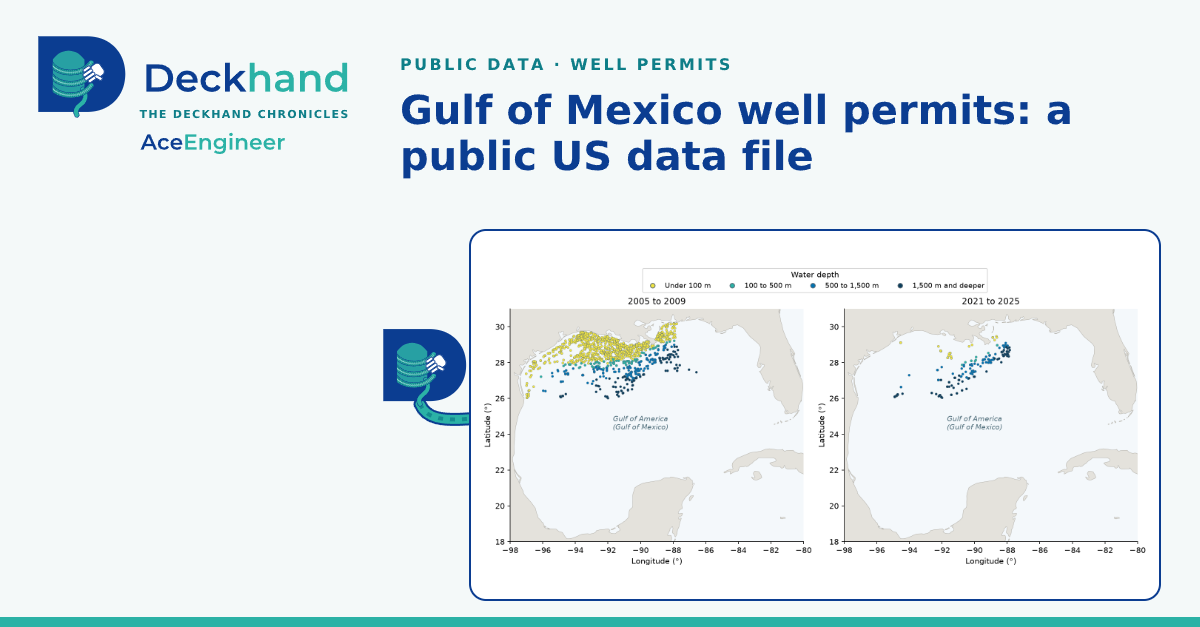
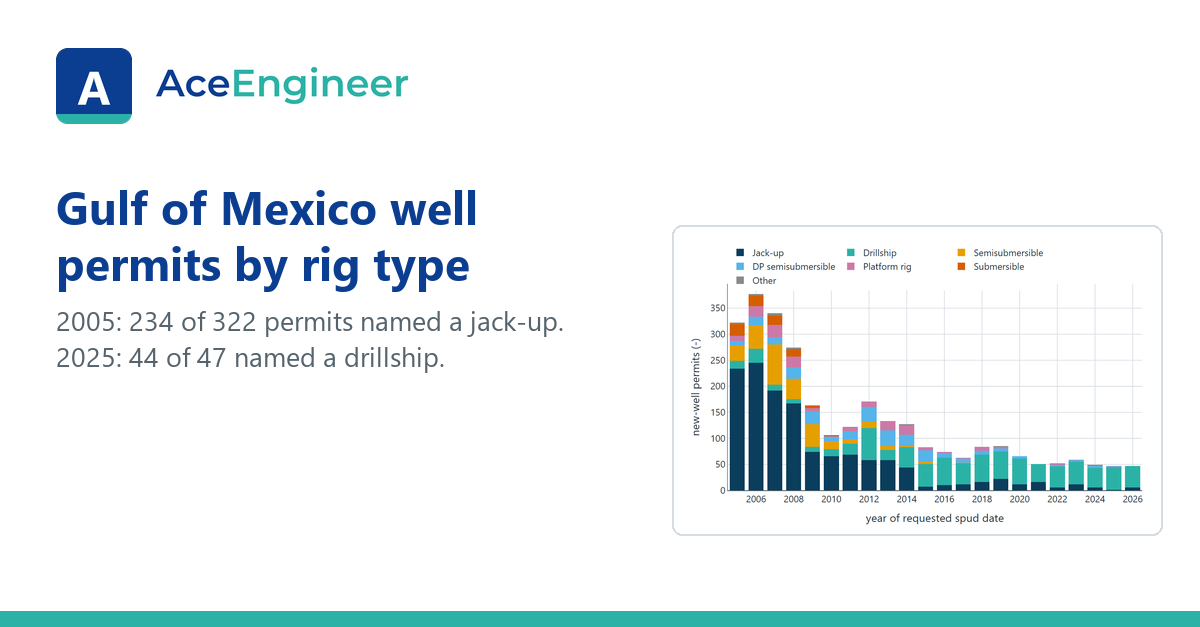
newsletter: review fixes for the issue 2 public data page
- Link-preview image under a new dated filename, so caches of the
  immutable old URL cannot pair the old chart with the new alt text; the
  old file stays as it was for links already shared.
- Map autoplay turns its live region off while playing and back on when
  the reader stops it, so screen readers do not announce every window.
- vendored-assets test: each Plotly build must have a matching .sha256
  sidecar, and the exception page must load the exact site path.

Claude-Session: https://claude.ai/code/session_01BEEVa5XpSEwnoG3YLYC6ZT

diff --git a/content/newsletter/issue-002-public-data/index.html b/content/newsletter/issue-002-public-data/index.html
@@ -12,7 +12,7 @@ rootPath: "../../"
 <meta property="og:description" content="Counts from raw data files of the US Bureau of Safety and Environmental Enforcement (BSEE): new-well permits in the US Gulf of Mexico by rig type and water depth, 2005 to 2026, and a map of new wells by water depth beside the oil price.">
 <meta property="og:type" content="article">
 <meta property="og:url" content="{{ canonicalUrl }}">
-<meta property="og:image" content="https://www.aceengineer.com/assets/img/og/issue-002-public-data.png">
+<meta property="og:image" content="https://www.aceengineer.com/assets/img/og/issue-002-public-data-2026-11-18.png">
 <meta property="og:image:type" content="image/png">
 <meta property="og:image:width" content="1200">
 <meta property="og:image:height" content="627">
@@ -20,7 +20,7 @@ rootPath: "../../"
 <meta name="twitter:card" content="summary_large_image">
 <meta name="twitter:title" content="Gulf of Mexico well permits: a public US data file (Deckhand newsletter, issue 2)">
 <meta name="twitter:description" content="Counts from raw data files of the US Bureau of Safety and Environmental Enforcement (BSEE): new-well permits in the US Gulf of Mexico by rig type and water depth, 2005 to 2026, and a map of new wells by water depth beside the oil price.">
-<meta name="twitter:image" content="https://www.aceengineer.com/assets/img/og/issue-002-public-data.png">
+<meta name="twitter:image" content="https://www.aceengineer.com/assets/img/og/issue-002-public-data-2026-11-18.png">
 <meta name="twitter:image:alt" content="Deckhand and AceEngineer marks with the title Gulf of Mexico well permits: a public US data file, beside a map of new Gulf wells by water depth">
 <script type="application/ld+json">[{"@context": "https://schema.org", "@type": "Article", "headline": "Gulf of Mexico well permits: a public US data file (Deckhand newsletter, issue 2)", "name": "Gulf of Mexico well permits: a public US data file (Deckhand newsletter, issue 2)", "description": "Counts from raw data files of the US Bureau of Safety and Environmental Enforcement (BSEE): new-well permits in the US Gulf of Mexico by rig type and water depth, 2005 to 2026, and a map of new wells by water depth beside the oil price.", "datePublished": "2026-11-04", "dateModified": "2026-11-18", "url": "https://www.aceengineer.com/newsletter/issue-002-public-data/", "inLanguage": "en-US", "publisher": {"@id": "https://www.aceengineer.com/#organization"}}, {"@context": "https://schema.org", "@type": "BreadcrumbList", "itemListElement": [{"@type": "ListItem", "position": 1, "name": "Home", "item": "https://www.aceengineer.com/"}, {"@type": "ListItem", "position": 2, "name": "Newsletter", "item": "https://www.aceengineer.com/newsletter/"}, {"@type": "ListItem", "position": 3, "name": "Gulf of Mexico well permits: a public US data file (Deckhand newsletter, issue 2)", "item": "https://www.aceengineer.com/newsletter/issue-002-public-data/"}]}]</script>
 <include src="partials/head-common.html"></include>
@@ -1040,9 +1040,9 @@ let timer=null;
 const show=i=>{link.i=i;link.frame=c.frames[i];const p=pick(i);
 Plotly.restyle(el,{x:p.map(q=>q.x),y:p.map(q=>q.y),customdata:p.map(q=>q.cd),name:names(i)},ids);
 range.value=String(i);out.textContent=c.frames[i].label;link.subs.forEach(f=>f(c.frames[i]));};
-const stop=()=>{if(timer){clearInterval(timer);timer=null;}btn.textContent='Play';btn.setAttribute('aria-label','Play the five-year windows');
+const stop=()=>{if(timer){clearInterval(timer);timer=null;}out.setAttribute('aria-live','polite');btn.textContent='Play';btn.setAttribute('aria-label','Play the five-year windows');
 hint.textContent='Stopped. Drag the slider, or click a year in panel b, to choose a window; Play runs the windows again.';};
-const play=()=>{if(timer)return;timer=setInterval(()=>show((link.i+1)%n),c.step_ms);btn.textContent='Pause';btn.setAttribute('aria-label','Pause on this window');
+const play=()=>{if(timer)return;out.setAttribute('aria-live','off');timer=setInterval(()=>show((link.i+1)%n),c.step_ms);btn.textContent='Pause';btn.setAttribute('aria-label','Pause on this window');
 hint.textContent='Playing every five-year window, one year apart. Click the map, the slider or a year in panel b to stop and choose.';};
 link.stop=stop;link.show=show;
 btn.addEventListener('click',()=>{if(timer)stop();else play();});

diff --git a/tests/js/vendored-assets.test.js b/tests/js/vendored-assets.test.js
@@ -89,10 +89,28 @@ describe('vendored assets (dist/)', () => {
     expect(shipped).toEqual(expected);
   });
 
-  test('each Plotly exception is loaded by its named page and by no other page', () => {
+  test('every shipped Plotly build has a .sha256 sidecar that matches it', () => {
+    // The sidecar scan below only checks sidecars that exist; this makes a missing one fail.
+    for (const file of [...new Set([PLOTLY, ...Object.values(PLOTLY_EXCEPTIONS)])]) {
+      const target = path.join(ROOT, 'assets', 'js', file);
+      const sidecar = `${target}.sha256`;
+      expect({ file, sidecar: fs.existsSync(sidecar) }).toEqual({ file, sidecar: true });
+      const expected = read(sidecar).trim().split(/\s+/)[0].toLowerCase();
+      const actual = crypto.createHash('sha256').update(fs.readFileSync(target)).digest('hex');
+      expect({ file, actual }).toEqual({ file, actual: expected });
+    }
+  });
+
+  test('each Plotly exception is loaded by its named page, at the site path, and by no other page', () => {
+    // Resolve each script src against its page URL, so a wrong relative depth
+    // (for example ../assets/js/... from a page two levels down) cannot pass.
+    const resolved = p => scriptSrcs(p).map(s => new URL(s, `https://www.aceengineer.com/${rel(p)}`).pathname);
     for (const [page, file] of Object.entries(PLOTLY_EXCEPTIONS)) {
-      const users = pages.filter(p => scriptSrcs(p).some(s => s.endsWith(`assets/js/${file}`))).map(rel);
+      const want = `/assets/js/${file}`;
+      const users = pages.filter(p => scriptSrcs(p).some(s => s.endsWith(file))).map(rel);
       expect({ file, users }).toEqual({ file, users: [page] });
+      const own = pages.find(p => rel(p) === page);
+      expect({ page, loads: resolved(own).filter(s => /plotly/i.test(s)) }).toEqual({ page, loads: [want] });
     }
   });
 

diff --git a/tests/js/metadata.test.js b/tests/js/metadata.test.js
@@ -325,7 +325,7 @@ const OWN_OG_IMAGES = {
   'newsletter/issue-002-energy-street/index.html': `${OG_BASE}issue-002-energy-street.png`,
   'newsletter/issue-002-jackup-method/index.html': `${OG_BASE}issue-002-jackup-method.png`,
   'newsletter/issue-002-main-street/index.html': `${OG_BASE}issue-002-main-street.png`,
-  'newsletter/issue-002-public-data/index.html': `${OG_BASE}issue-002-public-data.png`,
+  'newsletter/issue-002-public-data/index.html': `${OG_BASE}issue-002-public-data-2026-11-18.png`,
 };
 
 test('destinations have canonical Open Graph metadata and the existing logo', () => {
